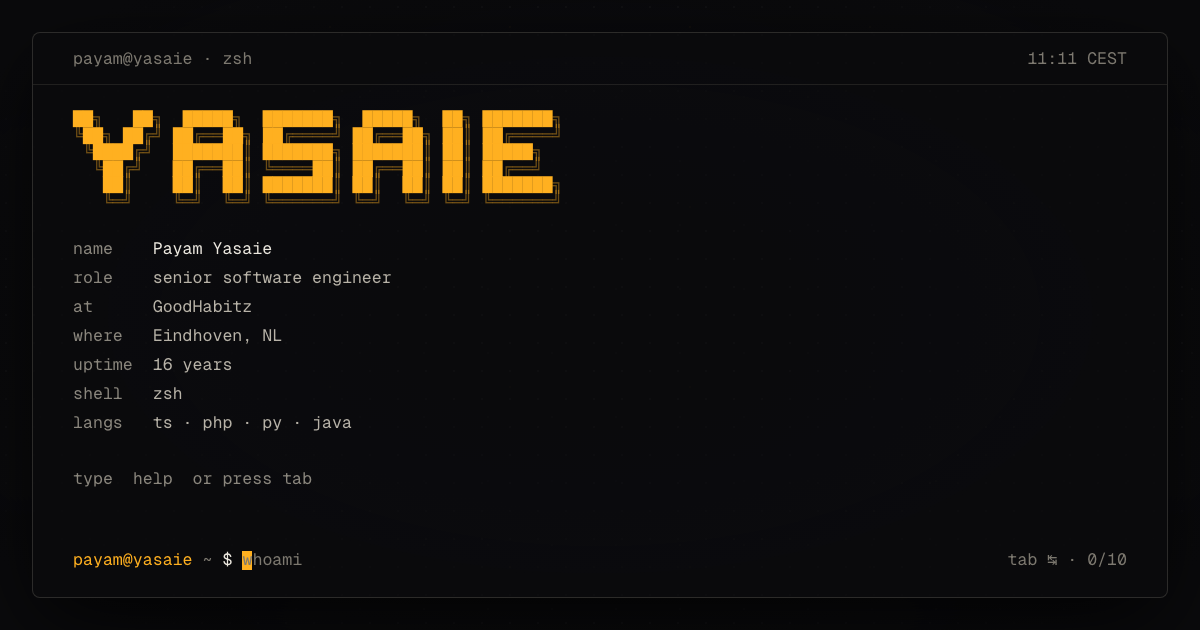
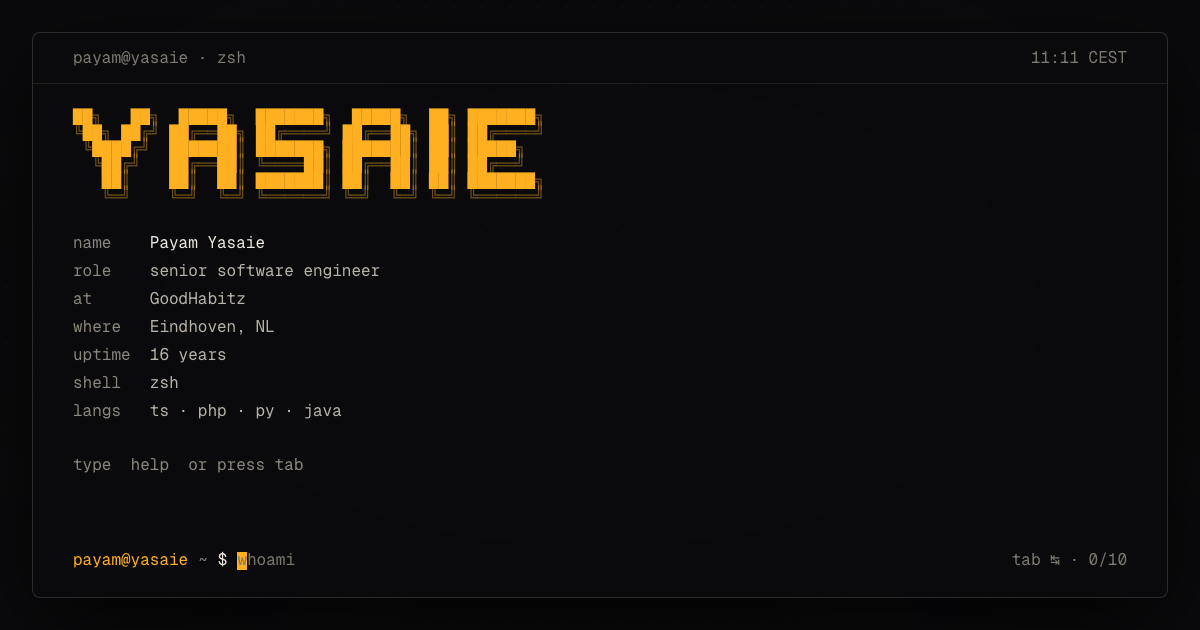
fix(ui): stop safari zooming the prompt on every tap
iOS zooms the page whenever a text field it focuses is set in type
smaller than sixteen pixels, and it does not zoom back out. The terminal
was set at fourteen on a phone, so every tap on the prompt left the
visitor pinching their way back to the output they had just asked for.

The type is sixteen pixels now, on every screen. It was a clamp between
fourteen and seventeen, which after raising the floor was a formula
spending three terms to move one pixel across every display made, so it
is a number.

The rule lives in a browser test, at a phone viewport, against the real
stylesheet: the prompt is set no smaller than the size safari reads
without zooming. And the share image has been retaken, because the
picture of the terminal has to be a picture of this terminal.

diff --git a/src/ui/terminal-screen/terminal-screen.browser.test.tsx b/src/ui/terminal-screen/terminal-screen.browser.test.tsx
@@ -11,6 +11,10 @@ const printing = { timeout: 5_000 }
 
 const shortScreen = { width: 1280, height: 300 }
 
+const phone = { width: 390, height: 844 }
+
+const safariZoomsBelow = 16
+
 const onScreen = (text: string): Promise<HTMLElement> =>
   waitFor(() => {
     const readable = screen.getAllByText(text).filter((drawn) => drawn.checkVisibility())
@@ -41,5 +45,15 @@ describe('the terminal a visitor lands on', () => {
 
     expect(lineHeight).toBeGreaterThan(0)
     expect((bottom - region.scrollTop) / lineHeight).toBeCloseTo(2, 1)
+  })
+
+  it('sets type no smaller than safari will read without zooming the prompt', async () => {
+    await page.viewport(phone.width, phone.height)
+    render(<TerminalScreen volume={servedDisk} />)
+    await onScreen('Payam Yasaie')
+
+    const typed = Number.parseFloat(getComputedStyle(screen.getByLabelText('command')).fontSize)
+
+    expect(typed).toBeGreaterThanOrEqual(safariZoomsBelow)
   })
 })

diff --git a/src/styles/index.css b/src/styles/index.css
@@ -13,7 +13,7 @@
   --font-mono: "Geist Mono", ui-monospace, SFMono-Regular, Menlo, monospace;
   --font-wordmark: "JetBrains Mono", ui-monospace, SFMono-Regular, Menlo, monospace;
 
-  --text-screen: clamp(14px, 0.55vw + 10px, 17px);
+  --text-screen: 16px;
   --text-wordmark: min(var(--text-screen), calc((100vw - 2 * var(--spacing-gutter)) / 28.8));
 
   --spacing-gutter: clamp(20px, 4vw, 40px);
